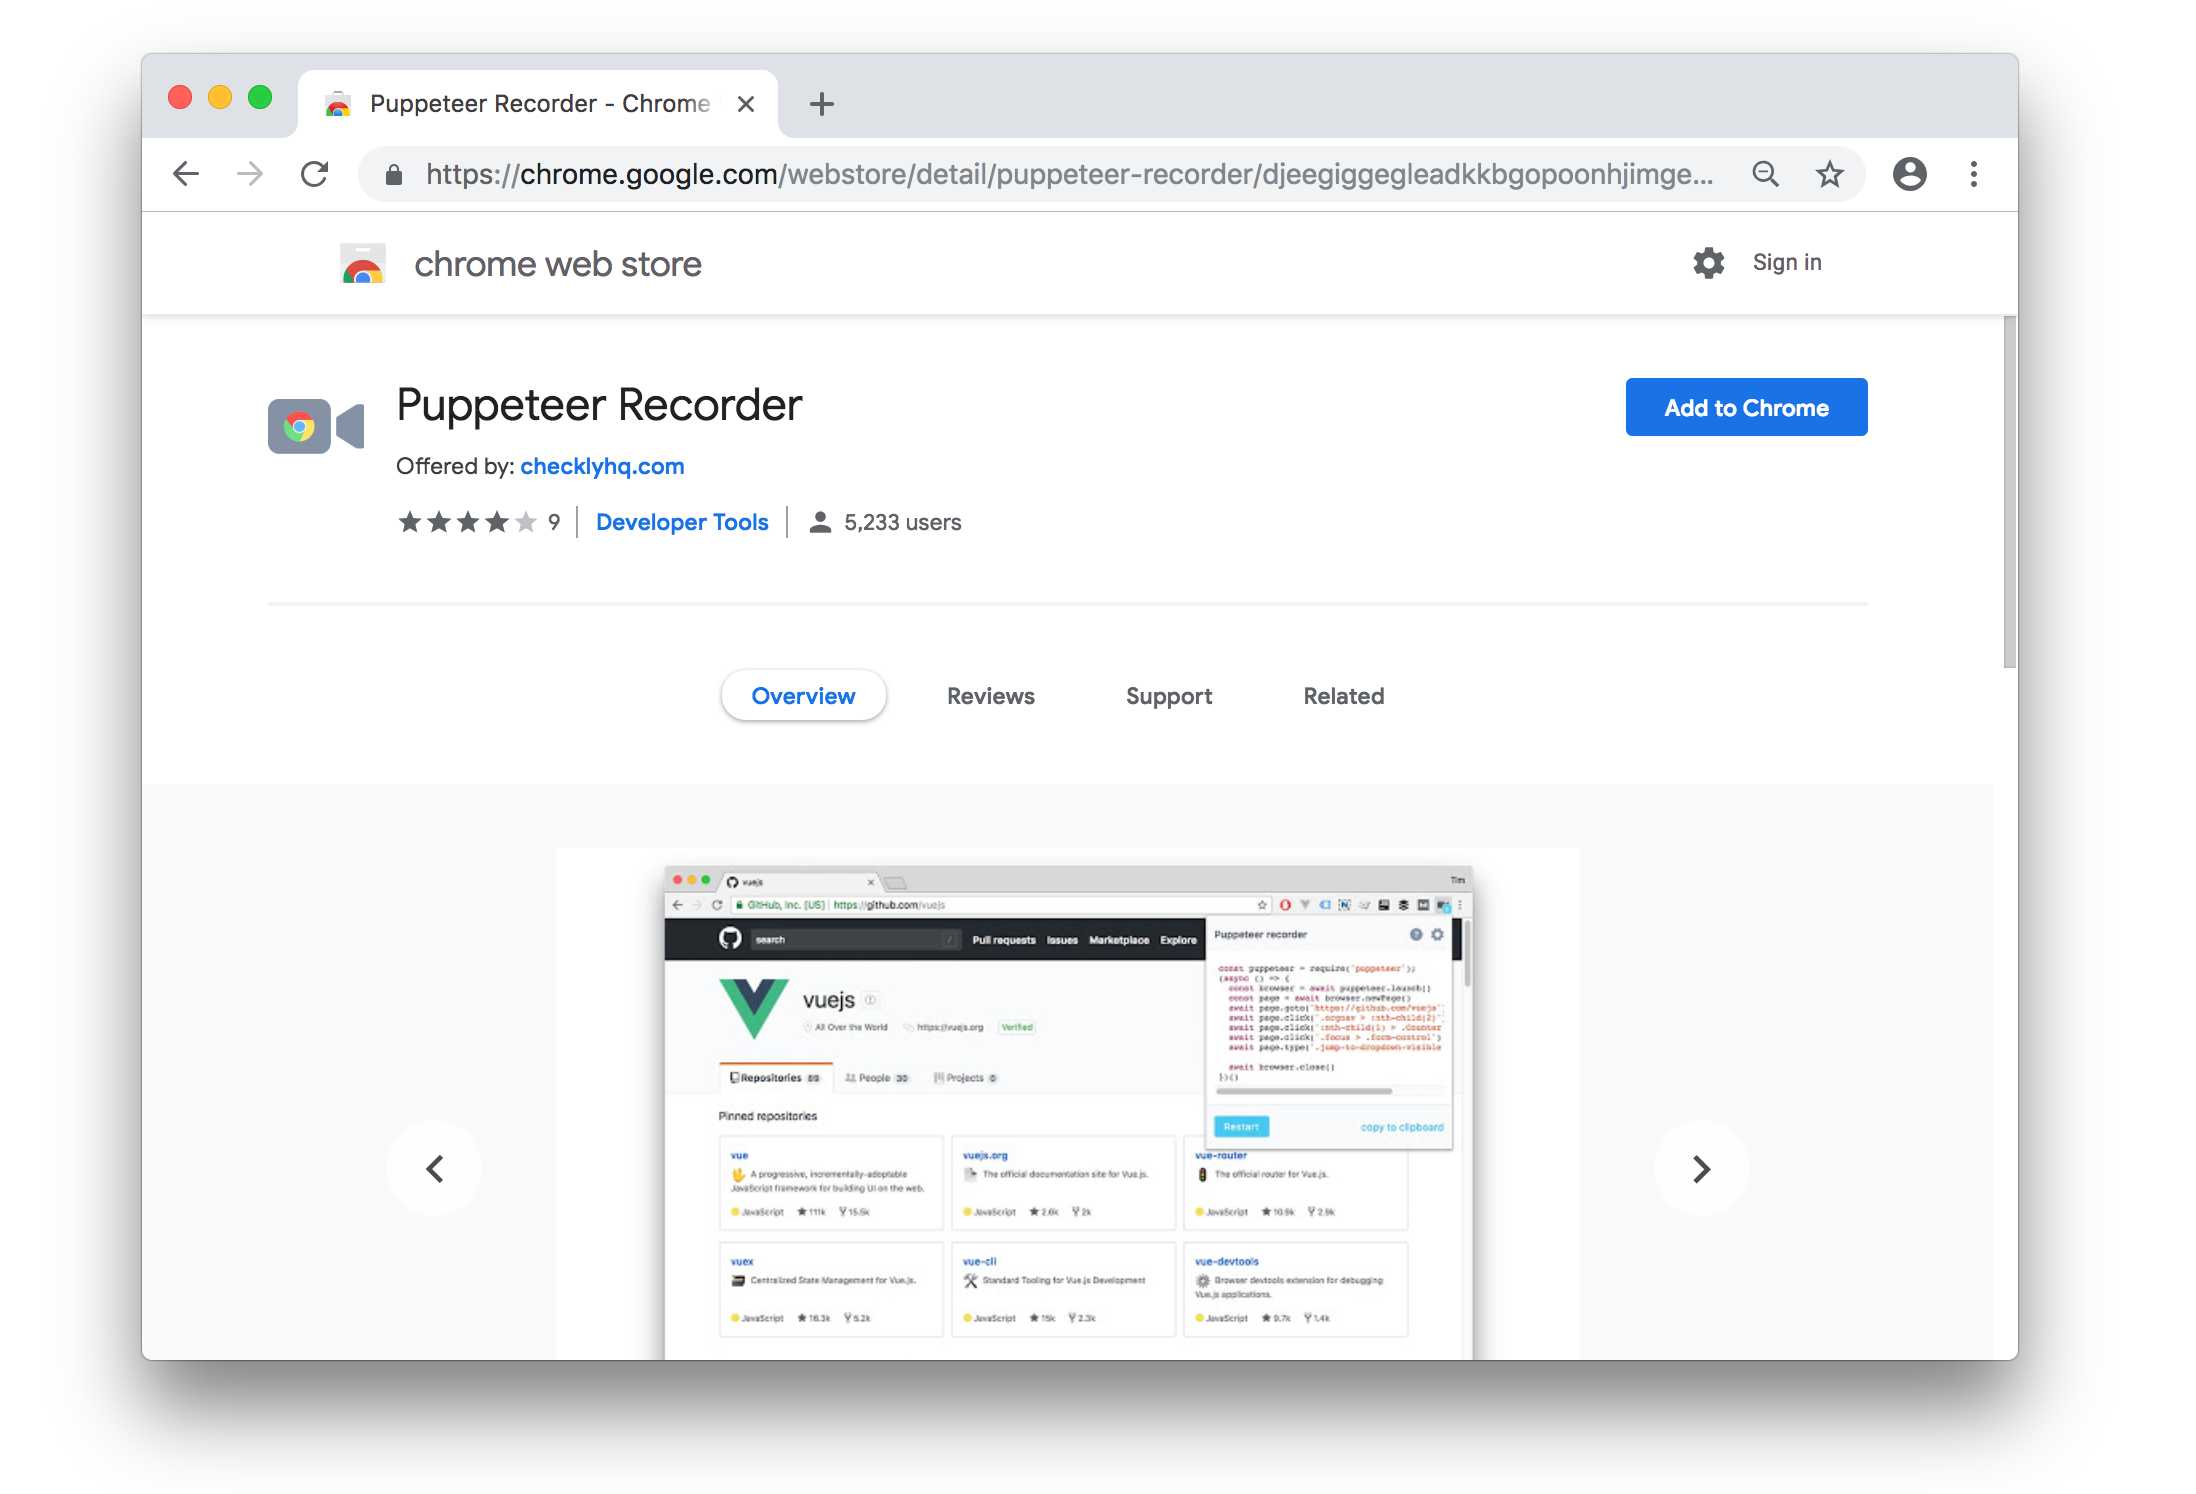
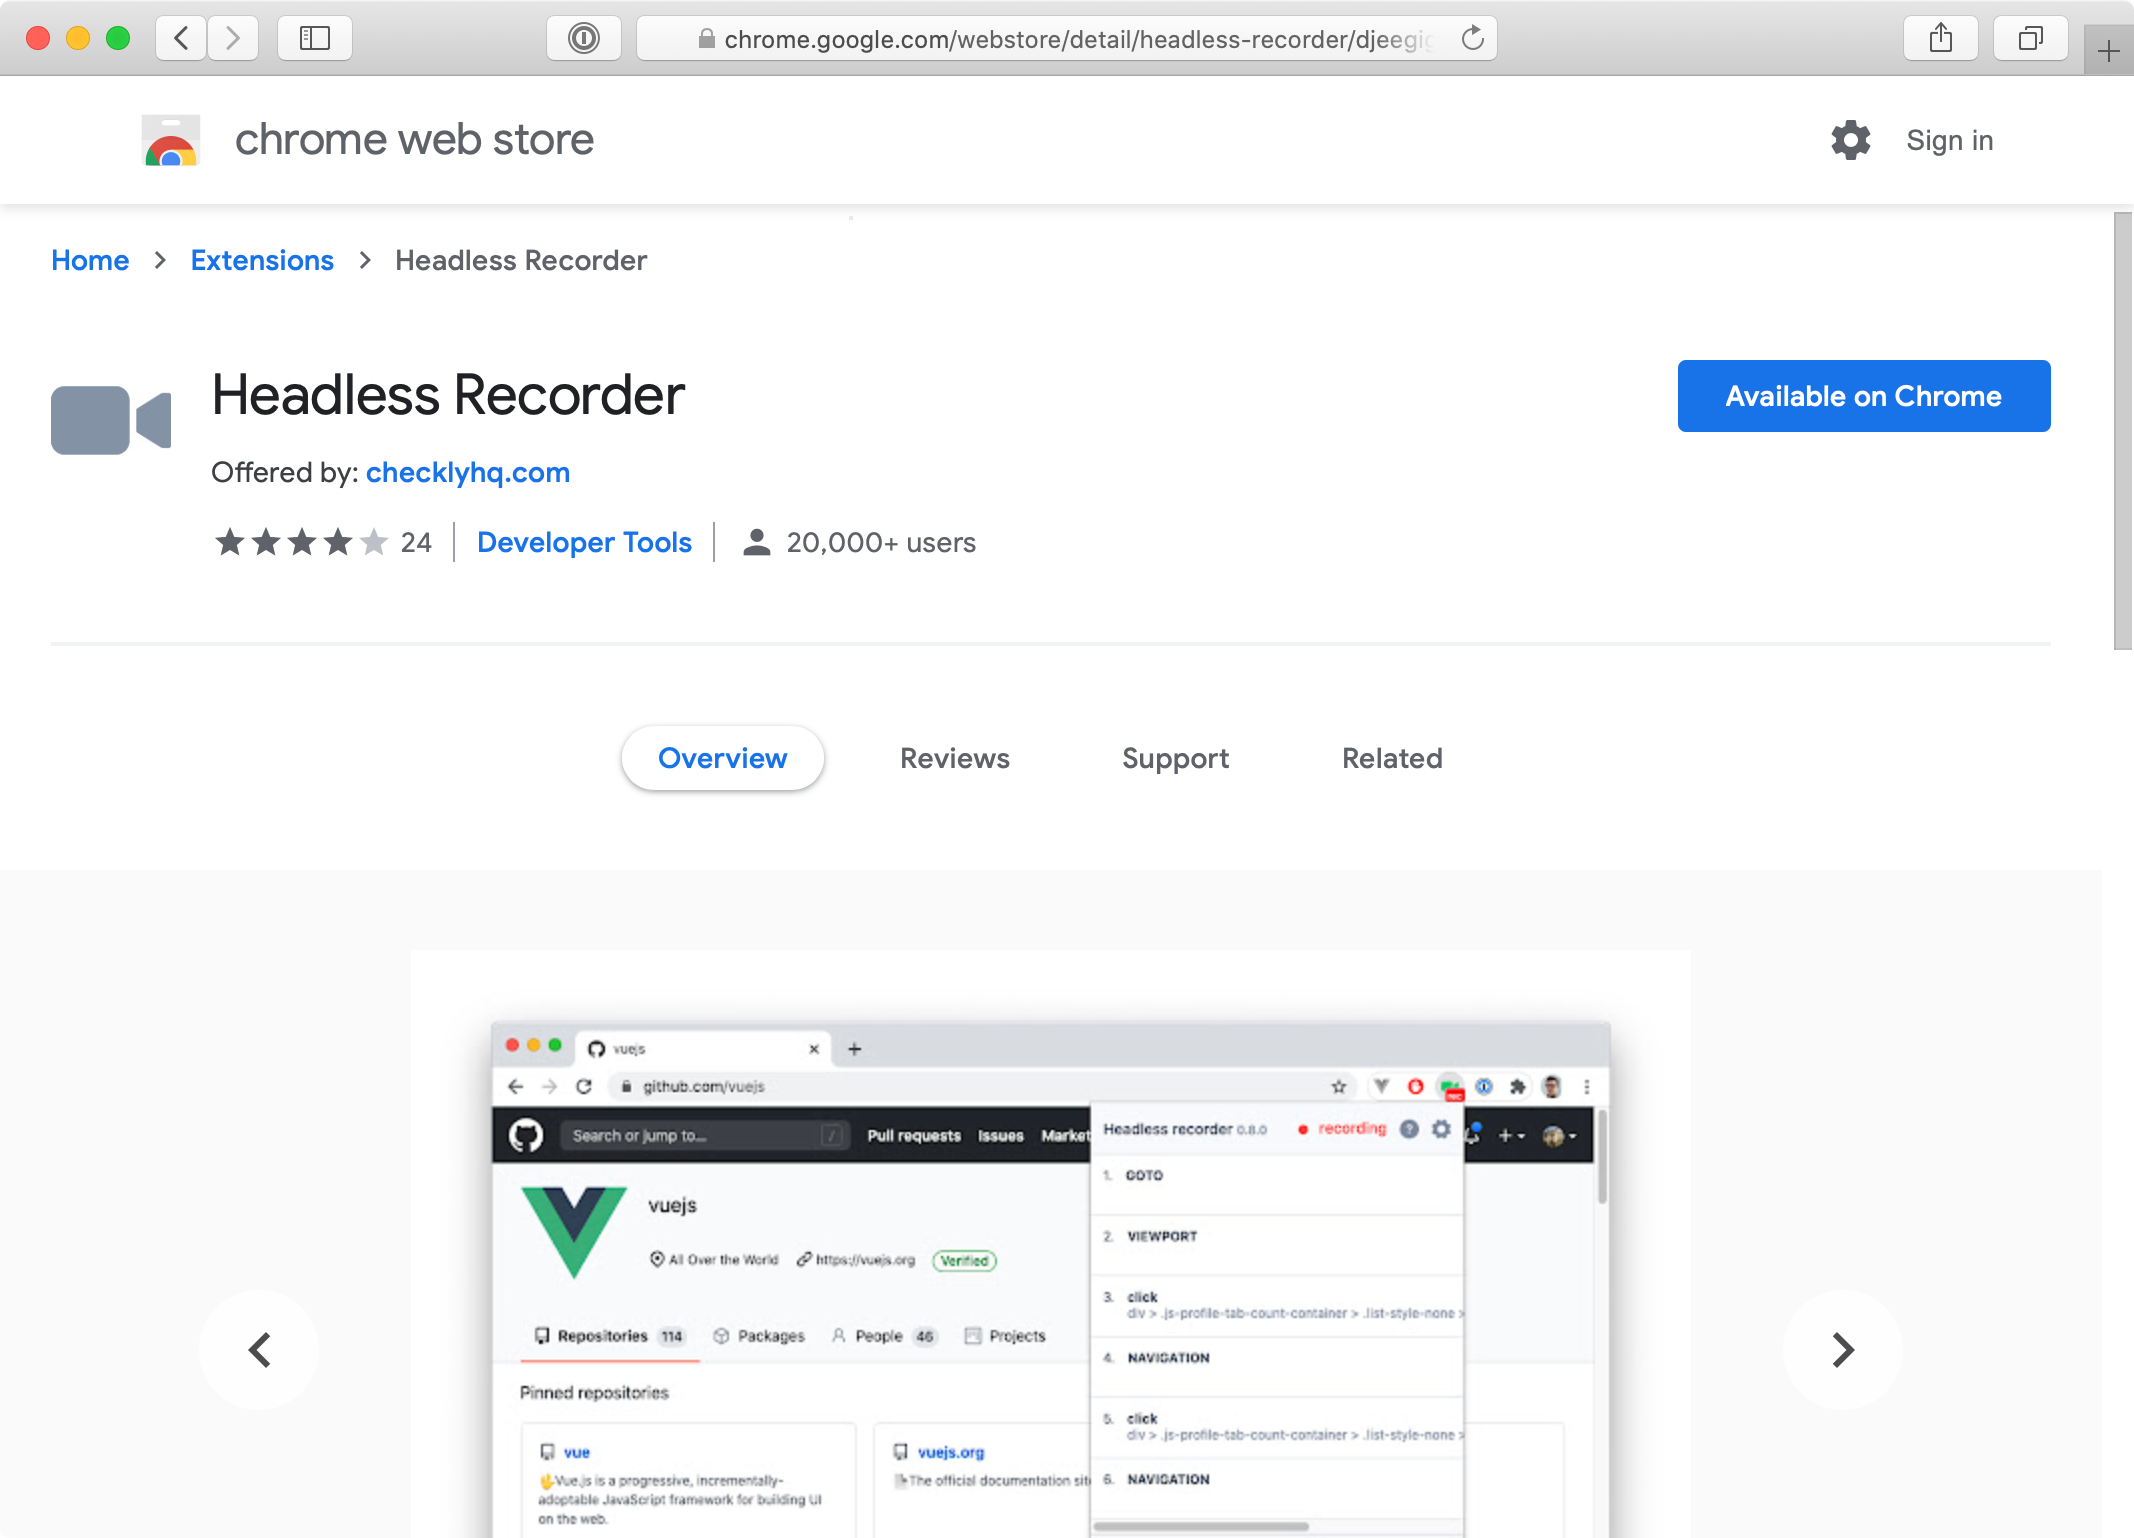
feat: renames puppeteer recorder to headless recorder

diff --git a/site/content/docs/headless-recorder/installation.md b/site/content/docs/headless-recorder/installation.md
@@ -3,35 +3,33 @@ title: Installation
 weight: 2
 menu:
   docs:
-    parent: "Puppeteer Recorder"
+    parent: "Headless Recorder"
 ---
 
-To install Puppeteer Recorder, go to the [Chrome Webstore](https://chrome.google.com/webstore/detail/puppeteer-recorder/djeegiggegleadkkbgopoonhjimgehda)
+To install Headless Recorder, go to the [Chrome Webstore](https://chrome.google.com/webstore/detail/puppeteer-recorder/djeegiggegleadkkbgopoonhjimgehda)
 and install it as follows:
 
-![Puppeteer Recorder Chrome Webstore](/docs/images/browser-checks/chrome-webstore.png)
+![Headless Recorder Chrome Webstore](/docs/images/browser-checks/chrome-webstore.png)
 
 1. Navigate to the [Chrome Webstore](https://chrome.google.com/webstore/detail/puppeteer-recorder/djeegiggegleadkkbgopoonhjimgehda) with your Chrome browser.
 2. Click the "Add to Chrome" button. You will see a camera icon appear in your toolbar.
-3. Clicking the camera icon will pop open Puppeteer Recorder.
-
-![Puppeteer Recorder installed](/docs/images/browser-checks/puppeteer-recorder-installed.png)
+3. Clicking the camera icon will pop open Headless Recorder.
 
 ## Setup for Checkly
 
-By default, Puppeteer Recorder generates code that is wrapped in an `async` helper function. This is handy when you want
+By default, Headless Recorder generates code that is wrapped in an `async` helper function. This is handy when you want
 to save the generated code directly to a file on your local machine and run the code with a simple `node myscript.js`.
 
 However, Checkly already wraps your code when running browser checks. You therefore need to uncheck the option **wrap code in 
-async function**. After this, all code generated by Puppeteer Recorder can be directly copy & pasted into Checkly.
+async function**. After this, all code generated by Headless Recorder can be directly copy & pasted into Checkly.
 
-![Puppeteer Recorder async setting](/docs/images/browser-checks/recorder_asyncwrap.png)
+![Headless Recorder async setting](/docs/images/browser-checks/recorder_asyncwrap.png)
 
 
 ## Options
 
 Open the options tab by clicking the cog wheel icon. In this tab you will find a set of configuration options that impact
-how Puppeteer Recorder generates Puppeteer code. Most options are self explanatory, byt two very important options are:
+how Headless Recorder generates Puppeteer and Playwright code. Most options are self explanatory, byt two very important options are:
 
 - **add waitForNavigation lines on navigation**: this determines if extra statements are added to wait for browser reloads
 when navigating from page to page. Turning this options off can result in failing or hanging scripts.

diff --git a/site/content/docs/headless-recorder/basic-usage.md b/site/content/docs/headless-recorder/basic-usage.md
@@ -3,10 +3,10 @@ title: Basic Usage
 weight: 3
 menu:
   docs:
-    parent: "Puppeteer Recorder"
+    parent: "Headless Recorder"
 ---
 
-The goal of Puppeteer Recorder is to be easy to use but with enough depth to also handle complexer scenarios.
+The goal of Headless Recorder is to be easy to use but with enough depth to also handle complexer scenarios.
 
 - Click the icon and hit **Record**.
 - Hit <kbd>tab</kbd> after you finish typing in an `input` element.
@@ -16,24 +16,25 @@ The goal of Puppeteer Recorder is to be easy to use but with enough depth to als
 - Click **Stop** to stop recording and generate the resulting code.
 - Hit **copy to clipboard** 
 
-With the code on your clipboard, you can save the code to a local file and run it, providing you have the Puppeteer npm package 
+With the code on your clipboard, you can save the code to a local file and run it, providing you have the Puppeteer or Playwright npm package 
 installed.
 ```shell
 npm install puppeteer
+npm install playwright
 node my_generated_script.js
 ```
 
 ## On cookies and authentication
 
-Puppeteer Recorder does not (yet) record or store any of your session cookies or other local settings. This means you
+Headless Recorder does not (yet) record or store any of your session cookies or other local settings. This means you
 can be logged in to some webapp and record a script, but on playback the script fails because you are not logged in.
 
-To work around this limitation you can record the login sequence as part of your script. Always starting Puppeteer Recorder when Chrome 
+To work around this limitation you can record the login sequence as part of your script. Always starting Headless Recorder when Chrome 
 is in Incognito Mode helps you dodge this pitfall, as it will become immediately clear when you are not logged in using
 session cookies. You need to explicitly allow the Puppeteer Recorder extension to run in Incognito mode on the details
 section on the Extension page of your Chrome browser:
 
-![puppeteer authentication and cookies](/docs/images/puppeteer-recorder/allow_incognito.png)
+![headless authentication and cookies](/docs/images/headless-recorder/allow_incognito.png)
 
 
 ## Filling out forms

diff --git a/site/content/docs/headless-recorder/_index.md b/site/content/docs/headless-recorder/_index.md
@@ -1,0 +1,40 @@
+---
+title: Overview
+weight: 1
+slug: /
+aliases:
+- "/puppeteer-recorder/"
+- "/headless-recorder"
+menu:
+  docs:
+    parent: "Headless Recorder"
+    identifier: overview-headless-recorder
+---
+
+![Headless Recorder Chrome extension](/docs/images/browser-checks/headless_recorder_1400.png)
+
+
+> ⭐ We're working on a new, better version of Headless Recorder.
+> Please read the [roadmap](/docs/puppeteer-recorder/roadmap/) on our plans for the future and the results of our [survey]((https://surveys.hotjar.com/s?siteId=717179&surveyId=137462))
+ 
+ 
+
+Headless recorder is a Chrome extension that records your browser interactions and generates a Puppeteer or Playwright script. 
+Use it to create Checkly browser checks without writing any code.
+  
+Puppeteer recorder has the following features:
+
+- Records clicks and type events.
+- Records form entries like dropdowns, radio buttons, checkboxes etc.
+- Records screenshots.
+- Adds `waitForNavigation`, `setViewPort` and other useful clauses.
+- Generates a Puppeteer script, ready for copy & pasting. 
+- Shows which events are being recorded.
+- Offers configuration options to tweak the generated code.
+- Is open source, check the code on the [GitHub repo](https://github.com/checkly/headless-recorder)
+
+**Next steps**
+
+- [Install Headless Recorder](/docs/headless-recorder/installation/) and tweak some options.
+- Learn how to [record scripts](/docs/headless-recorder/basic-usage/).
+- Learn about some of the current [limitations](/docs/headless-recorder/development/) of Puppeteer Recorder and how to file bugs and feature request.

diff --git a/site/content/docs/headless-recorder/roadmap.md b/site/content/docs/headless-recorder/roadmap.md
@@ -3,13 +3,13 @@ title: Roadmap
 weight: 5
 menu:
   docs:
-    parent: "Puppeteer Recorder"
+    parent: "Headless Recorder"
 ---
 
-We created Puppeteer Recorder as a cool Sunday afternoon side project while working on Checkly. The project is now at 
-10k+ users and 7K Github stars! Things were a little quite around the project, but that's going to change. 
+We created Headless Recorder (formerly know as Puppeteer Recorder) as a cool Sunday afternoon side project while working on Checkly. The project is now at 
+20k+ users and 8K Github stars! Things were a little quite around the project, but that's going to change. 
 
-Checkly is growing and we want to double down on making Puppeteer Recorder the most awesome 100% open source E2E test 
+Checkly is growing and we want to double down on making Headless Recorder the most awesome 100% open source E2E test 
 recorder on the planet. To be 100% transparent, we want to do this because:
 
 1. It is good for unsucking E2E test creation in general.
@@ -85,7 +85,7 @@ This is an open ended question. Here is a curated overview of replies:
 
 ## Roadmap (work in progress)
 
-Based on our own findings at Checkly and the survey results, we are going to start working on a new version of Puppeteer Recorder.
+Based on our own findings at Checkly and the survey results, we are going to start working on a new version of Headless Recorder.
 As always, we cannot give any hard promises on dates or features, but this is an initial sketch of what we want to achieve.
 
 - Support Puppeteer & Playwright.

diff --git a/site/content/docs/headless-recorder/development.md b/site/content/docs/headless-recorder/development.md
@@ -1,0 +1,23 @@
+---
+title: Development
+weight: 4
+menu:
+  docs:
+    parent: "Headless Recorder"
+---
+
+Headless recorder is under active development and new features are added on a monthly basis. You can [check the project on GitHub](https://github.com/checkly/headless-recorder)
+However, this means that not all DOM elements, browser interactions and events are all recorded at this stage.
+
+## Bugs & Feature requests
+
+- **Bugs:** If you find obvious bugs please file and issue on the [GitHub issue tracker](https://github.com/checkly/headless-recorder/issues).  
+- **Feature requests**: Similarly, if you have suggestion for a great feature, also file a request at the [GitHub issue tracker](https://github.com/checkly/headless-recorder/issues).
+
+## Recorded elements & events
+
+If some events are not recorded, please check the source files for which elements and which events are now supported.
+
+
+- [events](https://github.com/checkly/headless-recorder/blob/master/src/code-generator/dom-events-to-record.js)
+- [elements](https://github.com/checkly/headless-recorder/blob/master/src/code-generator/elements-to-bind-to.js)

diff --git a/site/content/docs/_index.md b/site/content/docs/_index.md
@@ -15,7 +15,7 @@ exact control over how your APIs and web apps should be monitored.
 - [Dashboards](/docs/dashboards)
 - [Teams](/docs/teams/)
 - [Integrations](/docs/integrations)
-- [Puppeteer Recorder](/puppeteer-recorder/)
+- [Headless Recorder](/headless-recorder/)
 - [API reference](/docs/api)
 
 
